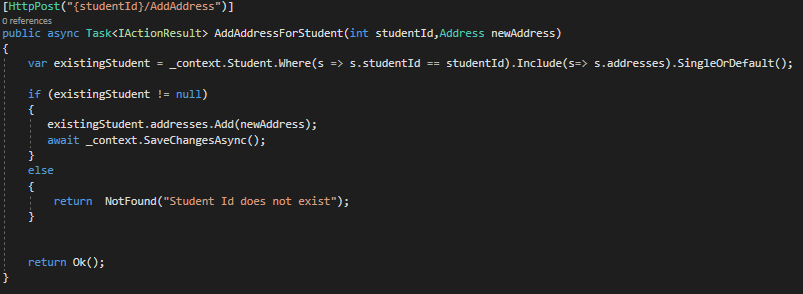
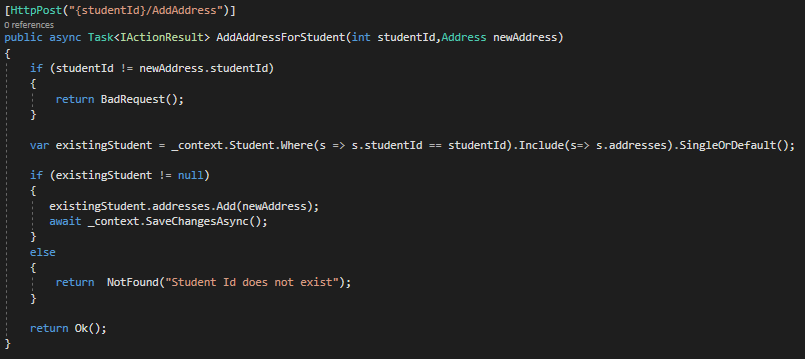
Update Readme: add todo list& add screenshot for 2.2.4;   StudentController: Bug fixed for addAddressforStudent - studentId consistency

diff --git a/MSA-StudentSIMS/Controllers/StudentsController.cs b/MSA-StudentSIMS/Controllers/StudentsController.cs
@@ -82,9 +82,15 @@ namespace MSA_StudentSIMS.Controllers
             return Ok();
         }
 
+
         [HttpPost("{studentId}/AddAddress")]
         public async Task<IActionResult> AddAddressForStudent(int studentId,Address newAddress)
         {
+            if (studentId != newAddress.studentId)
+            {
+                return BadRequest();
+            }
+
             var existingStudent = _context.Student.Where(s => s.studentId == studentId).Include(s=> s.addresses).SingleOrDefault();
 
             if (existingStudent != null)
@@ -96,7 +102,6 @@ namespace MSA_StudentSIMS.Controllers
             {
                 return  NotFound("Student Id does not exist");
             }
-
 
             return Ok();
         }

diff --git a/MSA-StudentSIMS/Models/Student.cs b/MSA-StudentSIMS/Models/Student.cs
@@ -2,8 +2,6 @@
 using System.Collections.Generic;
 using System.ComponentModel.DataAnnotations;
 using System.ComponentModel.DataAnnotations.Schema;
-using System.Linq;
-using System.Threading.Tasks;
 
 namespace MSA_StudentSIMS.Models
 {

diff --git a/README.md b/README.md
@@ -1,3 +1,16 @@
+Todo:
+
+- [ ] Test `Put /api/Students/{id}` and `PUT /api/Students/{studentId}/{addressId}/UpdateAddress`
+- [ ] More Explanations in section of API Endpoints 
+- [ ] Complete missing response string for each API
+- [ ] Add Table of Contents
+
+- [ ] Update and Elaborate seed data 
+- [ ] **All screenshot synced**
+- [ ] **All Published**
+
+
+
 # 1. Azure Link
 
 Here is the URL of my APIs that have been hosted on Azure: https://msa-projects-phase1-schoolsims-webapi.azurewebsites.net/
@@ -153,3 +166,4 @@ This API would update a existing address for a existing student in the database.
 
 ### 2.2.4 **Screenshot** of Swagger UI showing all API Endpoints
 
+![Annotation_APIEndpointsAll](D:\Dev Folder\MSA Projects\MSA-StudentSIMS\Images\Annotation_APIEndpointsAll.png)
